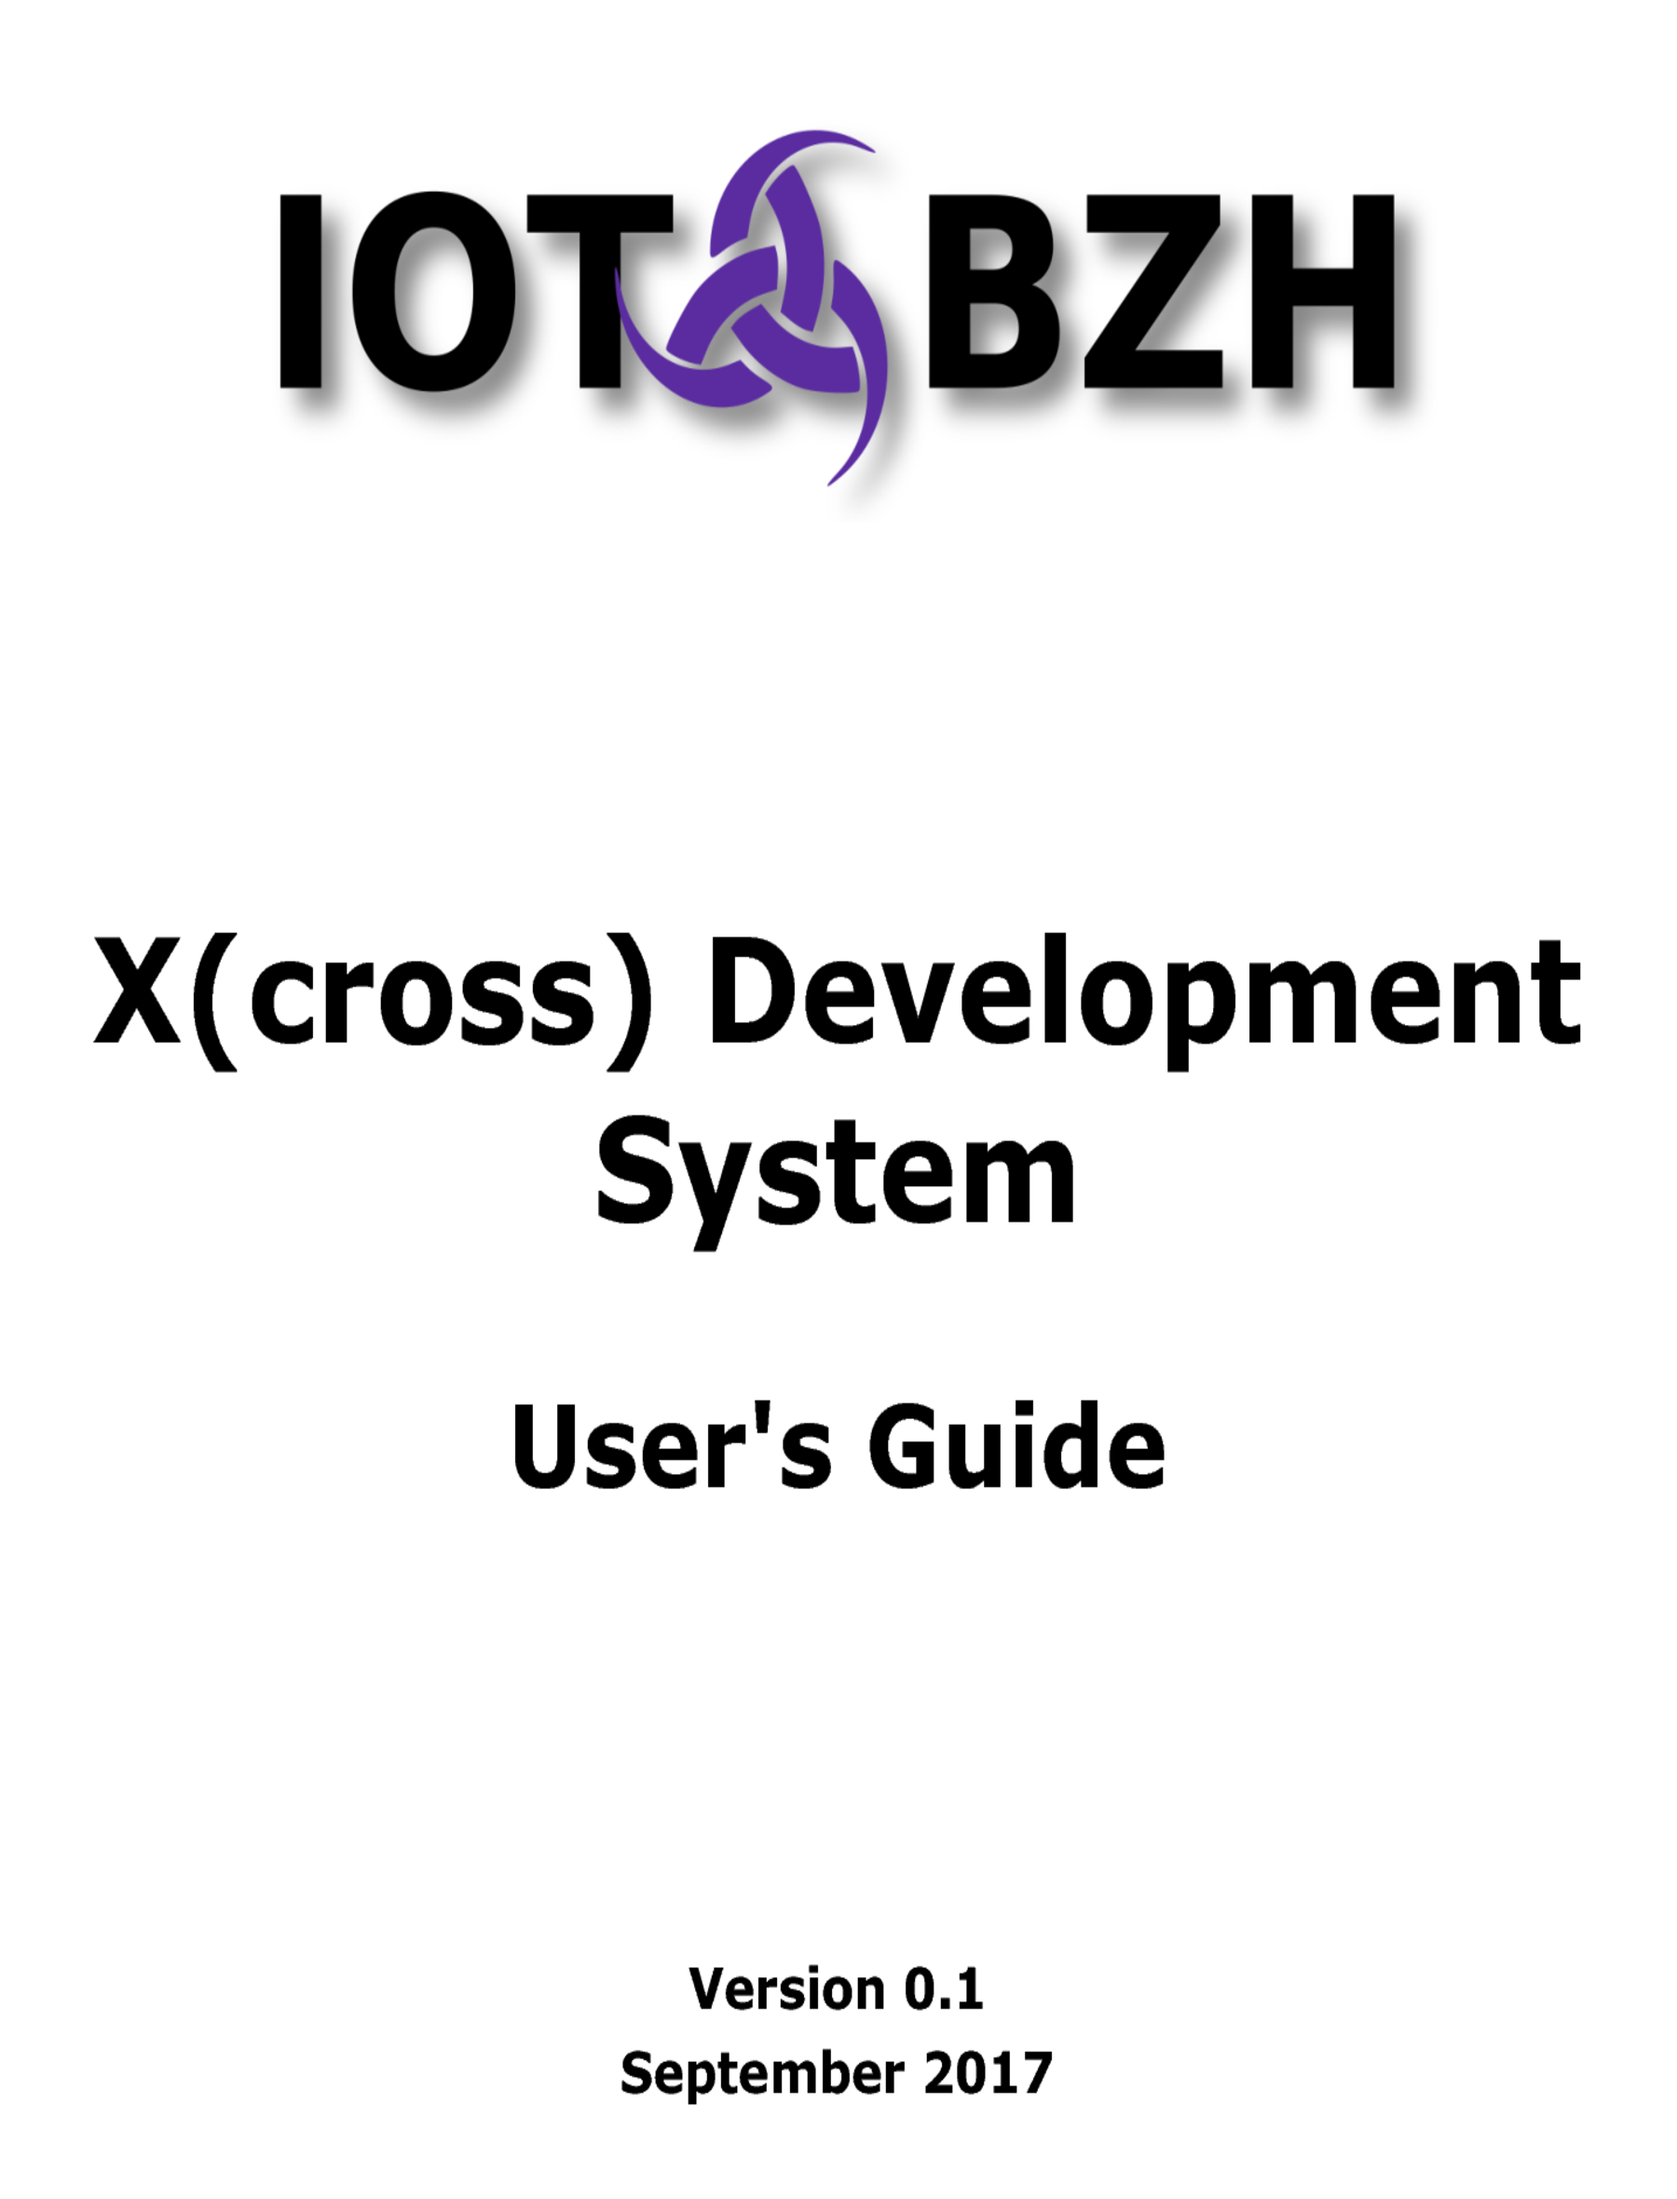
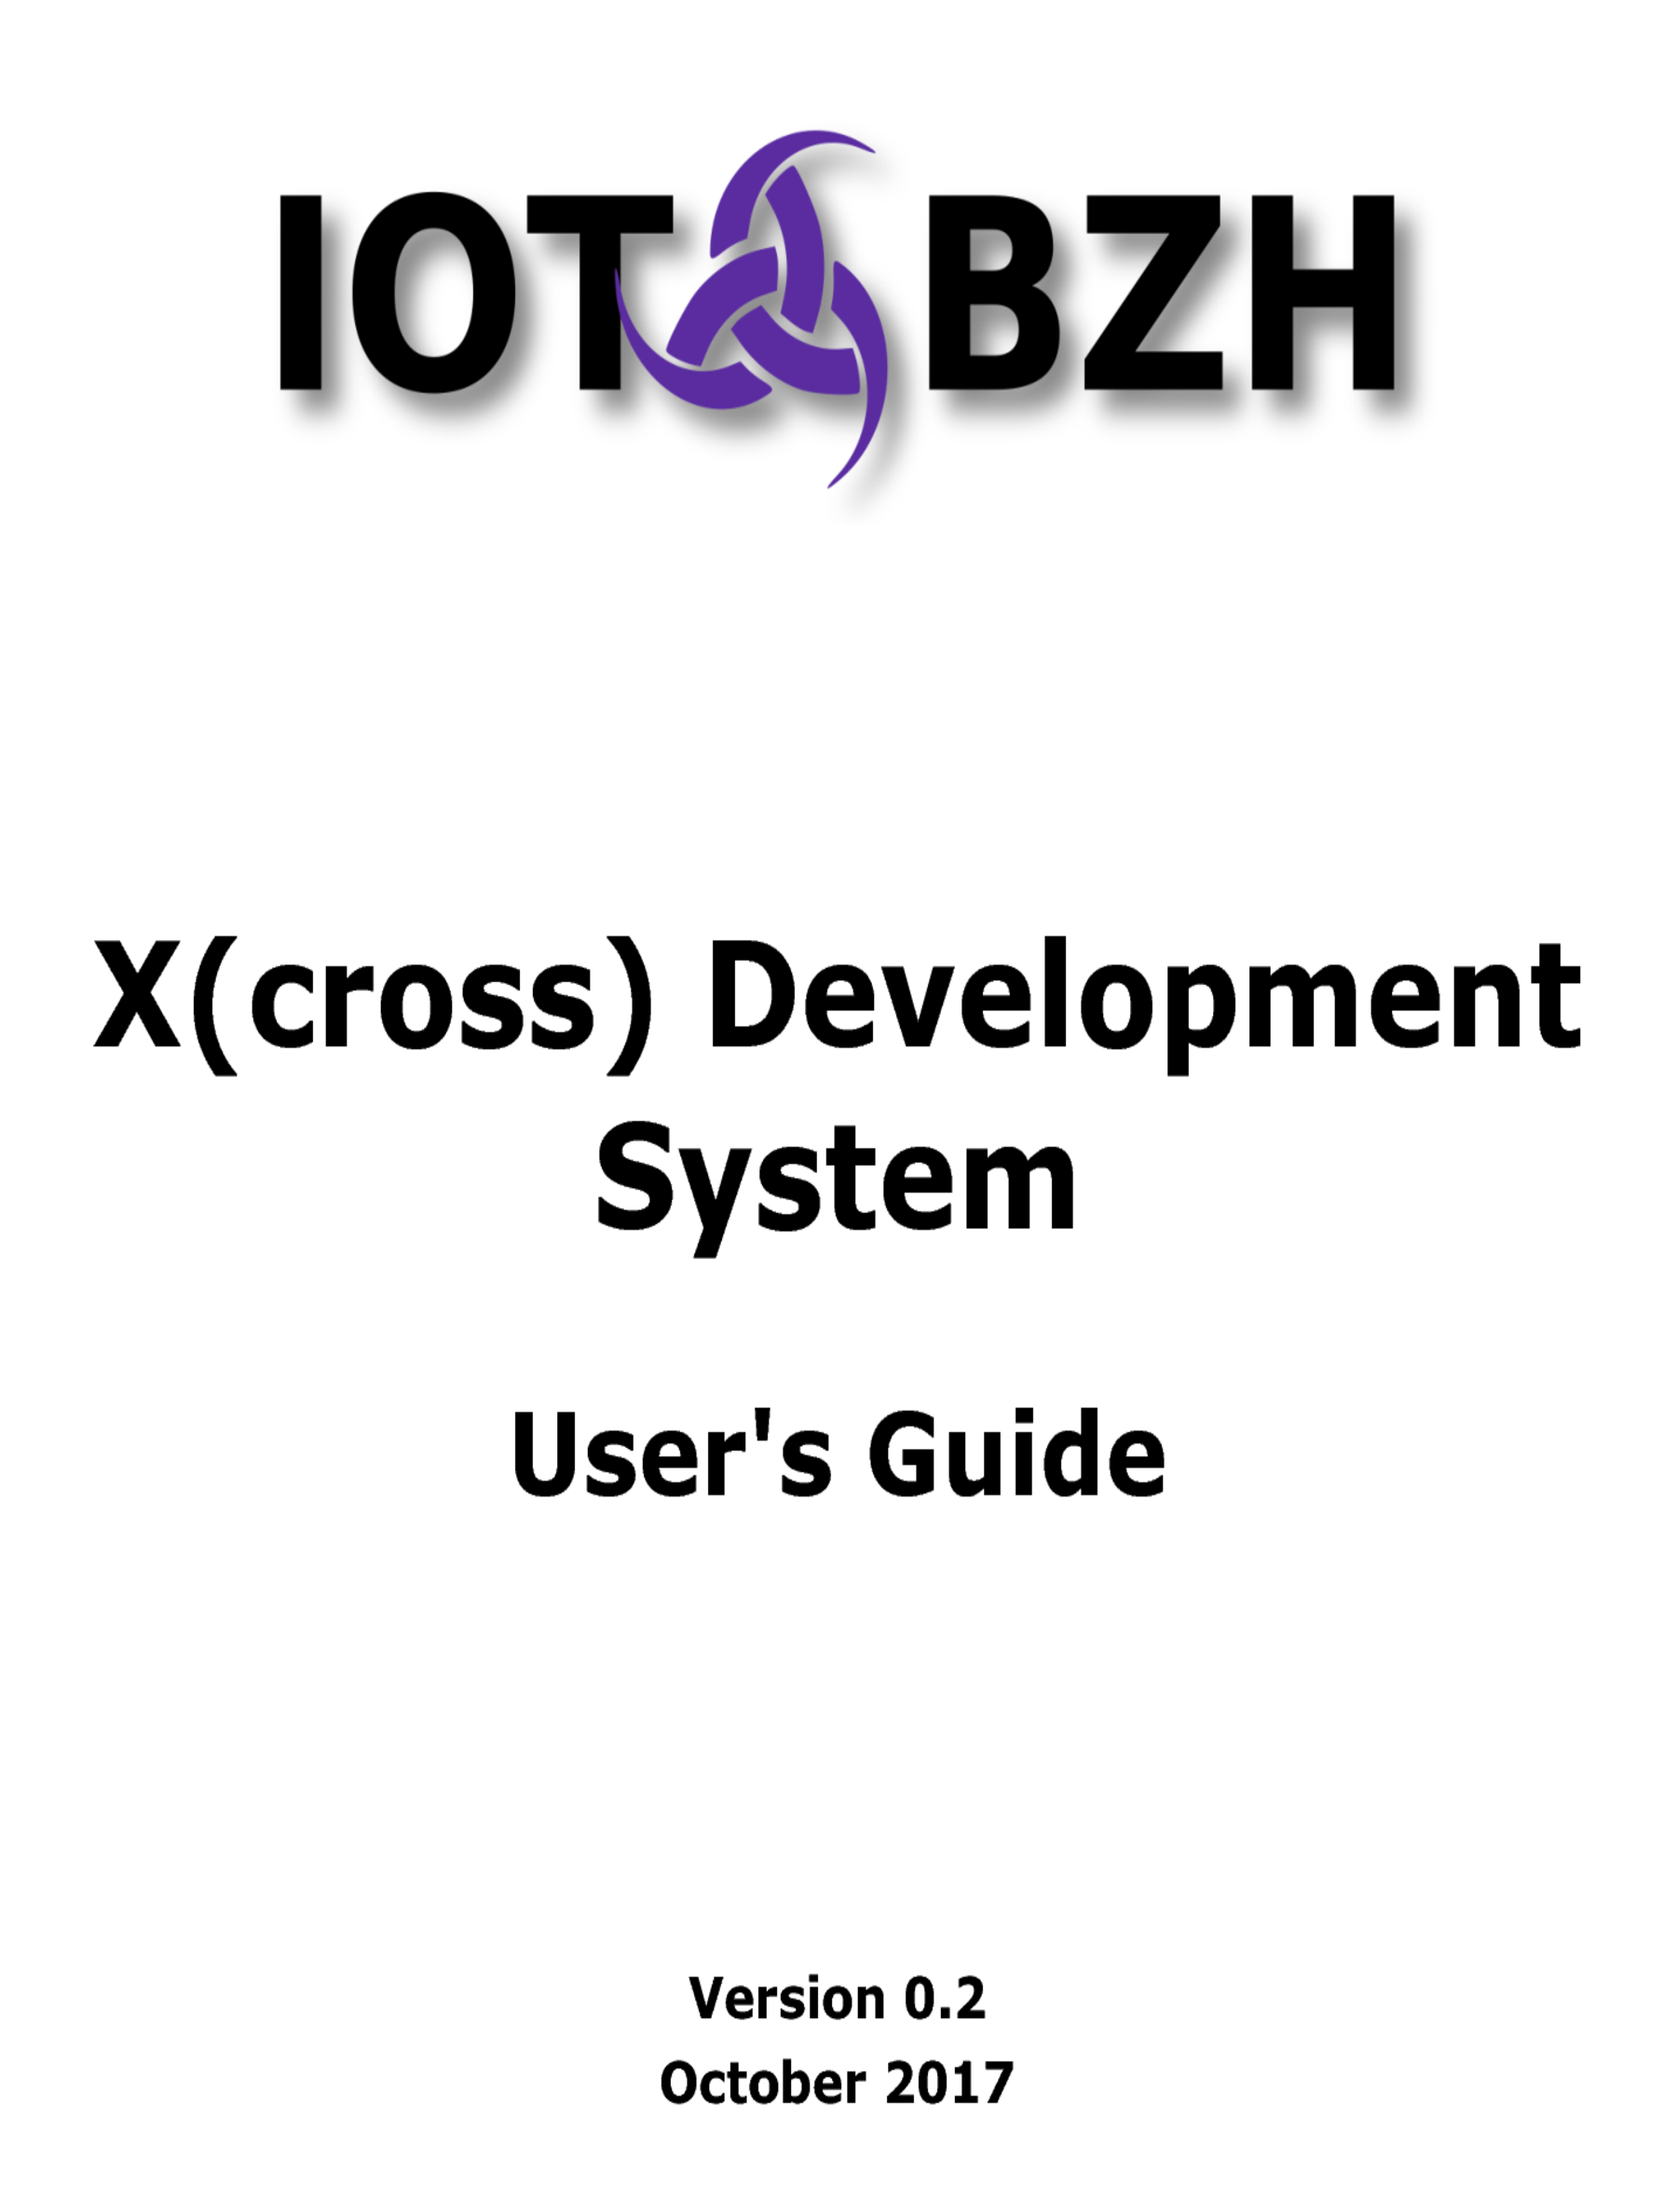
Bump to v0.2

diff --git a/docs/0-Doc-Revisions.md b/docs/0-Doc-Revisions.md
@@ -4,3 +4,4 @@ Document revisions
 | Date        | Version | Designation                          | Author                  |
 |-------------|---------|--------------------------------------|-------------------------|
 | Sept 2017   |   0.1   | Initial release                      | S. Douheret [ Iot.bzh ] |
+| Oct 2017    |   0.2   | Various update to match new behavior | S. Douheret [ Iot.bzh ] |
